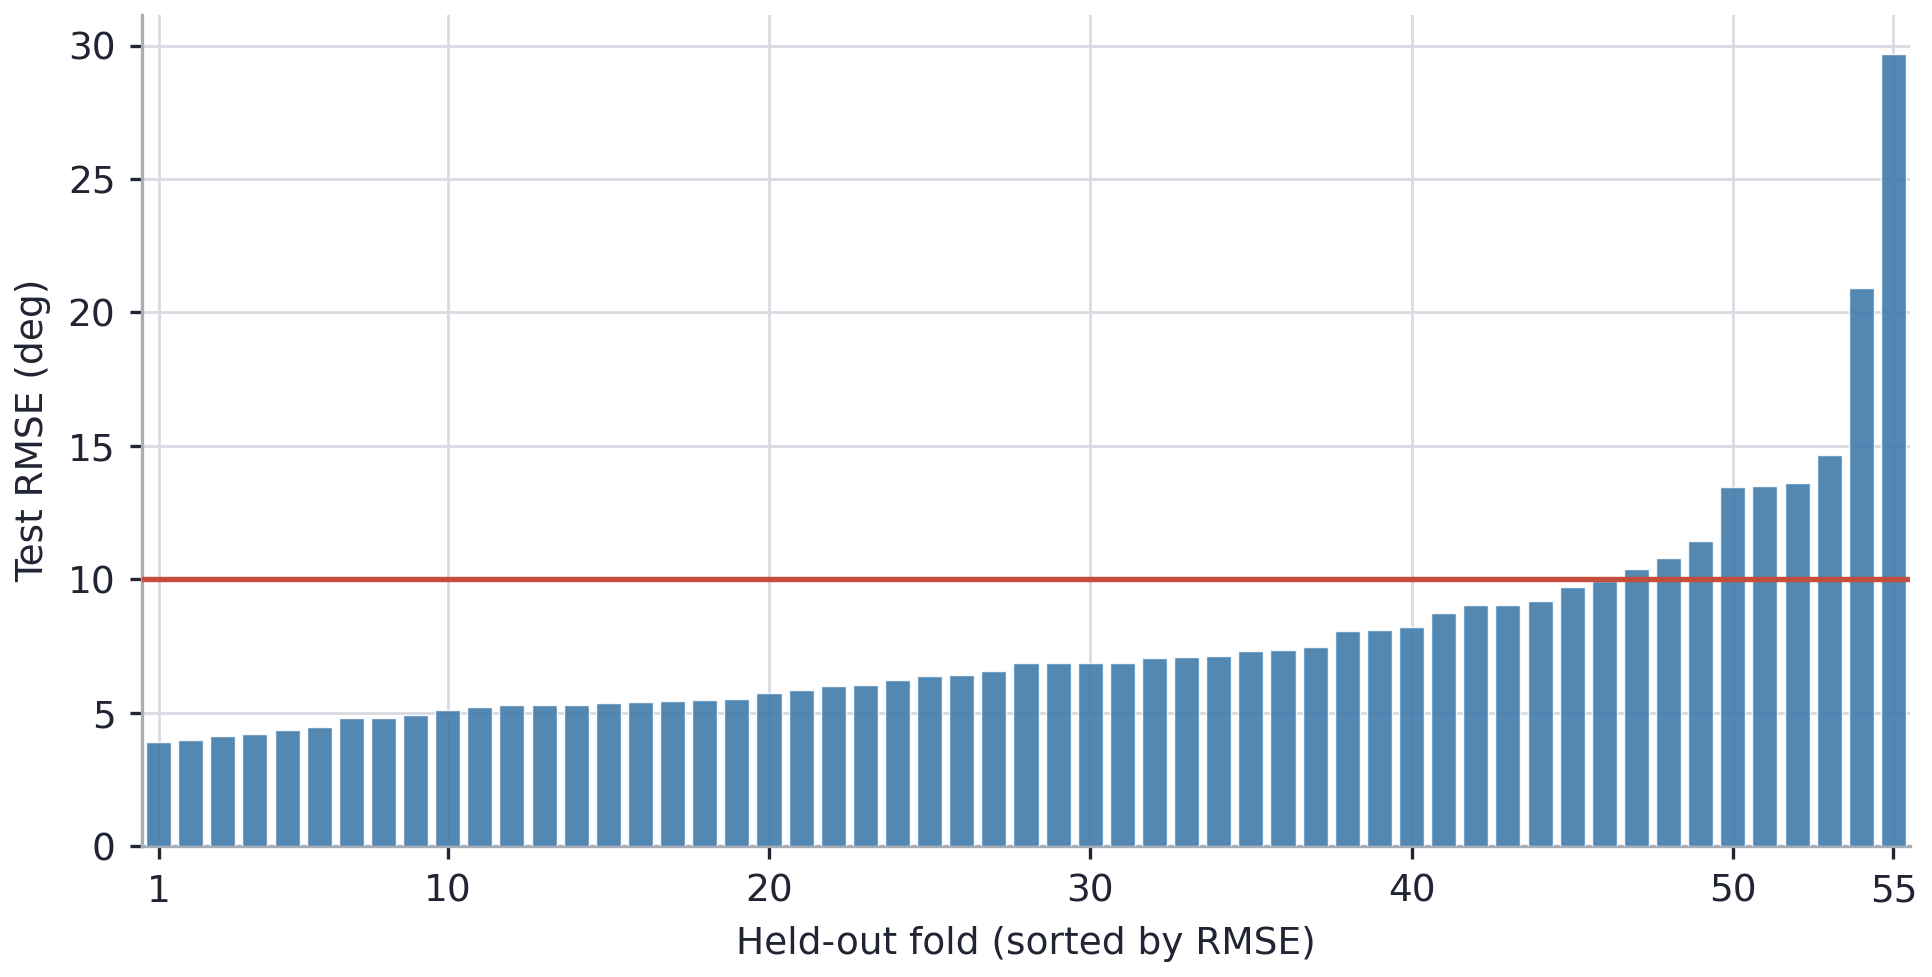
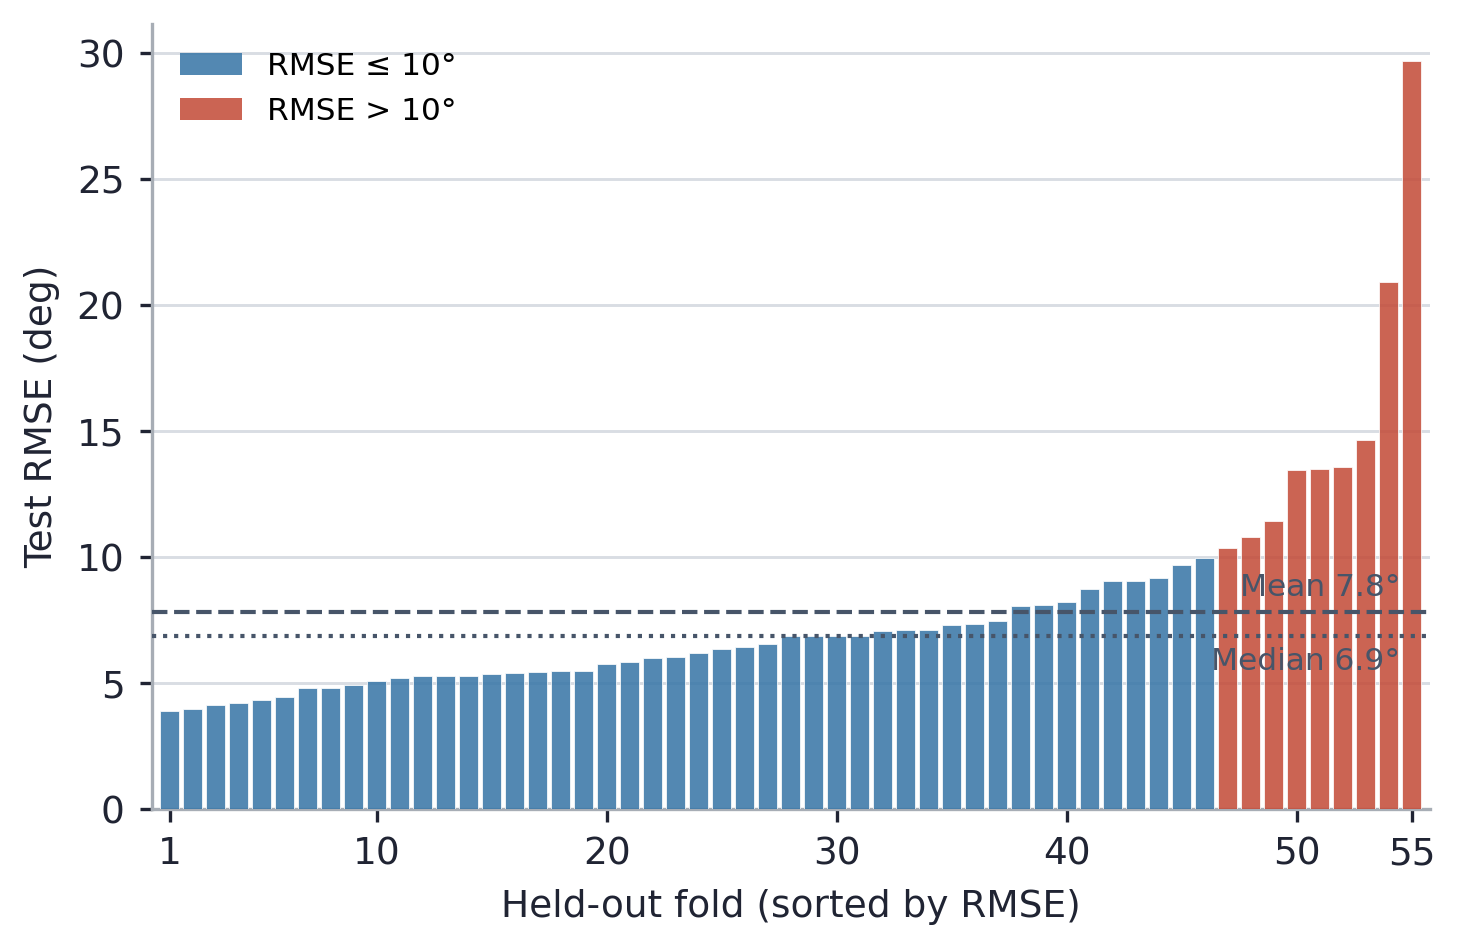
Overhaul figs 2-5 for consistency and paper readiness
Fig 2: add panel labels A/B, reduce fill alpha, thinner lines,
  explicit dpi/bbox_inches, frameless legend
Fig 3: narrow to 5.5 in, color bars by 10-deg threshold, add
  mean/median reference lines with text annotations, y-grid only
Fig 4: merge REF+PRED onto a shared y-axis (panel A) so the
  comparison is direct; excess AUC in panel B with Wilcoxon note;
  add panel labels A/B
Fig 5: uniform slate dot color across all 3 panels, red regression
  line as paper accent; restore y-labels on panels B and C;
  consistent stat annotation position (top-right); add panel labels A/B/C

Changed region(s): [[0.0, 0.0306, 1.0, 0.9779]]

diff --git a/analysis/make_paper_figures.py b/analysis/make_paper_figures.py
@@ -585,124 +585,134 @@ def fig2_representative_trial(sim_df: pd.DataFrame, trial_idx: int = 75) -> str:
     risk_pred = d["predicted_fall_risk_trace_good"]
     excess = float(sim_df.iloc[trial_idx]["excess_auc"])
 
-    fig, (ax1, ax2) = plt.subplots(1, 2, figsize=(8.6, 3.2), gridspec_kw={"wspace": 0.35})
+    fig, (ax1, ax2) = plt.subplots(1, 2, figsize=(7.2, 3.0), gridspec_kw={"wspace": 0.42})
 
-    ax1.axhline(0, color="#9aa3ad", linewidth=1.0)
-    ax1.plot(t, xcom_ref, color=REF_COL, linewidth=1.9, label="REF")
-    ax1.plot(t, xcom_pred, color=PRED_COL, linewidth=1.9, label="PRED")
-    ax1.fill_between(t, xcom_ref, 0, where=(xcom_ref < 0), color=REF_COL, alpha=0.10)
-    ax1.fill_between(t, xcom_pred, 0, where=(xcom_pred < 0), color=PRED_COL, alpha=0.10)
-    ax1.set_xlabel("Time (s)")
-    ax1.set_ylabel("XCoM margin (m)")
-    ax1.legend(loc="lower left", fontsize=8)
+    # Panel A — XCoM margin
+    ax1.axhline(0, color="#9aa3ad", linewidth=0.8, linestyle="--", zorder=1)
+    ax1.fill_between(t, xcom_pred, 0, where=(xcom_pred < 0), color=PRED_COL, alpha=0.12, zorder=2)
+    ax1.plot(t, xcom_ref,  color=REF_COL,  linewidth=1.5, label="REF",  zorder=3)
+    ax1.plot(t, xcom_pred, color=PRED_COL, linewidth=1.5, label="PRED", zorder=4)
+    ax1.set_xlabel("Time (s)", fontsize=9)
+    ax1.set_ylabel("XCoM margin (m)", fontsize=9)
+    ax1.legend(loc="lower left", fontsize=8, frameon=False)
+    ax1.xaxis.set_major_locator(MaxNLocator(nbins=5))
+    ax1.yaxis.set_major_locator(MaxNLocator(nbins=5))
     _grid(ax1, "y")
+    ax1.text(-0.14, 1.03, "A", transform=ax1.transAxes, fontsize=10, fontweight="bold", va="top", color=INK)
 
-    ax2.plot(t, risk_ref, color=REF_COL, linewidth=1.9, label="REF")
-    ax2.plot(t, risk_pred, color=PRED_COL, linewidth=1.9, label="PRED")
-    ax2.fill_between(t, risk_ref, color=REF_COL, alpha=0.10)
-    ax2.fill_between(t, risk_pred, color=PRED_COL, alpha=0.10)
-    ax2.set_xlabel("Time (s)")
-    ax2.set_ylabel("Instability score")
-    ax2.set_ylim(-0.02, 1.05)
-    ax2.legend(loc="upper left", fontsize=8)
-    ax2.text(
-        0.98,
-        0.04,
-        f"Excess AUC = {excess:.3f}",
-        transform=ax2.transAxes,
-        ha="right",
-        va="bottom",
-        fontsize=8,
-        color=INK,
-    )
+    # Panel B — per-step risk score
+    ax2.fill_between(t, risk_pred, color=PRED_COL, alpha=0.12, zorder=2)
+    ax2.plot(t, risk_ref,  color=REF_COL,  linewidth=1.5, label="REF",  zorder=3)
+    ax2.plot(t, risk_pred, color=PRED_COL, linewidth=1.5, label="PRED", zorder=4)
+    ax2.set_xlabel("Time (s)", fontsize=9)
+    ax2.set_ylabel("Instability score", fontsize=9)
+    ax2.set_ylim(-0.02, 1.08)
+    ax2.legend(loc="upper left", fontsize=8, frameon=False)
+    ax2.text(0.97, 0.04, f"Excess AUC = {excess:.3f}",
+             transform=ax2.transAxes, ha="right", va="bottom", fontsize=8, color=INK)
+    ax2.xaxis.set_major_locator(MaxNLocator(nbins=5))
+    ax2.yaxis.set_major_locator(MaxNLocator(nbins=4))
     _grid(ax2, "y")
+    ax2.text(-0.14, 1.03, "B", transform=ax2.transAxes, fontsize=10, fontweight="bold", va="top", color=INK)
 
     out = OUT_DIR / "fig2_representative_trial.png"
-    fig.savefig(out)
+    fig.savefig(out, dpi=300, bbox_inches="tight", pad_inches=0.08)
     plt.close(fig)
     return str(out)
 
 
 def fig3_prediction(train_df: pd.DataFrame) -> str:
-    df = train_df.copy()
-    df = df.sort_values("test_rmse")
+    df = train_df.copy().sort_values("test_rmse")
     rmse = np.asarray(df["test_rmse"].to_numpy(), dtype=float)
     x = np.arange(1, rmse.size + 1, dtype=int)
+    mean_v = float(np.mean(rmse))
+    med_v = float(np.median(rmse))
 
-    fig, ax = plt.subplots(figsize=(7.6, 3.6))
-    ax.bar(x, rmse, width=0.78, color=BLUE_COL, edgecolor=WHITE, linewidth=0.35, alpha=0.88, zorder=3)
-    ax.axhline(10.0, color=PRED_COL, linewidth=1.3, zorder=5)
-    ax.set_xlabel("Held-out fold (sorted by RMSE)")
-    ax.set_ylabel("Test RMSE (deg)")
-    ax.set_xlim(0.5, float(rmse.size) + 0.5)
+    bar_colors = [PRED_COL if v > 10.0 else BLUE_COL for v in rmse]
+
+    fig, ax = plt.subplots(figsize=(5.5, 3.4))
+    ax.bar(x, rmse, width=0.82, color=bar_colors, edgecolor=WHITE, linewidth=0.2, alpha=0.88, zorder=3)
+    ax.axhline(mean_v, color="#475569", linewidth=1.0, linestyle="--", zorder=5)
+    ax.axhline(med_v,  color="#475569", linewidth=1.0, linestyle=":",  zorder=5)
+    ax.text(rmse.size - 0.5, mean_v + 0.4, f"Mean {mean_v:.1f}\u00b0",
+            ha="right", va="bottom", fontsize=7.5, color="#475569")
+    ax.text(rmse.size - 0.5, med_v - 0.4, f"Median {med_v:.1f}\u00b0",
+            ha="right", va="top", fontsize=7.5, color="#475569")
+    ax.set_xlabel("Held-out fold (sorted by RMSE)", fontsize=9)
+    ax.set_ylabel("Test RMSE (deg)", fontsize=9)
+    ax.set_xlim(0.2, float(rmse.size) + 0.8)
+    ax.set_ylim(0, None)
     ax.set_xticks([1, 10, 20, 30, 40, 50, 55])
-    _grid(ax, "both")
+    _grid(ax, "y")
+
+    # Compact legend for bar colors
+    from matplotlib.patches import Patch
+    ax.legend(
+        handles=[Patch(facecolor=BLUE_COL, alpha=0.88, label="RMSE \u2264 10\u00b0"),
+                 Patch(facecolor=PRED_COL, alpha=0.88, label="RMSE > 10\u00b0")],
+        loc="upper left", fontsize=7.5, frameon=False,
+    )
 
     out = OUT_DIR / "fig3_prediction_performance.png"
-    fig.savefig(out)
+    fig.savefig(out, dpi=300, bbox_inches="tight", pad_inches=0.08)
     plt.close(fig)
     return str(out)
 
 
 def fig4_simulation(sim_df: pd.DataFrame) -> str:
-    ref_auc = sim_df["ref_auc"].to_numpy()
+    ref_auc  = sim_df["ref_auc"].to_numpy()
     pred_auc = sim_df["pred_auc"].to_numpy()
-    excess = sim_df["excess_auc"].to_numpy()
+    excess   = sim_df["excess_auc"].to_numpy()
     rng = np.random.default_rng(42)
 
-    fig = plt.figure(figsize=(9.4, 3.6))
-    gs = fig.add_gridspec(1, 3, left=0.075, right=0.975, bottom=0.18, top=0.95, wspace=0.24)
-    ax_ref = fig.add_subplot(gs[0, 0])
-    ax_pred = fig.add_subplot(gs[0, 1])
-    ax_ex = fig.add_subplot(gs[0, 2])
+    fig, (ax_cmp, ax_ex) = plt.subplots(
+        1, 2, figsize=(7.0, 3.4),
+        gridspec_kw={"wspace": 0.44, "width_ratios": [1.1, 1.0]},
+    )
 
-    def _single_box(
-        axp: plt.Axes,
-        data: np.ndarray,
-        xpos: float,
-        color: str,
-        label: str,
-        add_zero: bool = False,
-        box_width: float = 0.30,
-        jitter: float = 0.06,
-        x_pad: float = 0.42,
-    ) -> None:
+    def _box(axp: plt.Axes, data: np.ndarray, xpos: float, col: str, jitter: float = 0.07) -> None:
         axp.boxplot(
-            [data],
-            positions=[xpos],
-            widths=box_width,
-            patch_artist=True,
-            showfliers=False,
-            boxprops=dict(facecolor=WHITE, edgecolor=INK, linewidth=1.0),
-            whiskerprops=dict(color=INK, linewidth=1.0),
-            capprops=dict(color=INK, linewidth=1.0),
-            medianprops=dict(color=INK, linewidth=1.2),
+            [data], positions=[xpos], widths=0.30,
+            patch_artist=True, showfliers=False,
+            boxprops=dict(facecolor=WHITE, edgecolor=INK, linewidth=0.9),
+            whiskerprops=dict(color=INK, linewidth=0.9),
+            capprops=dict(color=INK, linewidth=0.9),
+            medianprops=dict(color=col, linewidth=1.6),
         )
         axp.scatter(
             xpos + rng.uniform(-jitter, jitter, size=data.size),
-            data,
-            s=18,
-            color=color,
-            edgecolors="white",
-            linewidth=0.25,
-            alpha=0.78,
-            zorder=3,
+            data, s=14, color=col, edgecolors="white", linewidth=0.2, alpha=0.72, zorder=3,
         )
-        if add_zero:
-            axp.axhline(0, color="#94a3b8", linewidth=0.9, linestyle="--", zorder=1)
-        axp.set_xticks([xpos])
-        axp.set_xticklabels([label])
-        axp.set_xlim(xpos - x_pad, xpos + x_pad)
-        _grid(axp, "y")
-        axp.spines["bottom"].set_visible(False)
 
-    _single_box(ax_ref, ref_auc, 1.0, REF_COL, "REF")
-    _single_box(ax_pred, pred_auc, 1.0, PRED_COL, "PRED")
-    _single_box(ax_ex, excess, 1.0, PRED_COL, "PRED - REF", add_zero=True, box_width=0.24, jitter=0.045, x_pad=0.34)
+    # Panel A — REF vs PRED on shared y-axis
+    _box(ax_cmp, ref_auc,  1.0, REF_COL)
+    _box(ax_cmp, pred_auc, 2.0, PRED_COL)
+    ax_cmp.set_xticks([1.0, 2.0])
+    ax_cmp.set_xticklabels(["REF", "PRED"])
+    ax_cmp.set_xlim(0.5, 2.5)
+    ax_cmp.set_ylabel("Instability AUC", fontsize=9)
+    ax_cmp.yaxis.set_major_locator(MaxNLocator(nbins=5))
+    _grid(ax_cmp, "y")
+    ax_cmp.spines["bottom"].set_visible(False)
+    ax_cmp.text(-0.16, 1.03, "A", transform=ax_cmp.transAxes,
+                fontsize=10, fontweight="bold", va="top", color=INK)
 
-    ax_ref.set_ylabel("Instability AUC")
-    ax_pred.set_ylabel("Instability AUC")
-    ax_ex.set_ylabel("Excess AUC")
+    # Panel B — excess AUC
+    _box(ax_ex, excess, 1.0, PRED_COL, jitter=0.05)
+    ax_ex.axhline(0, color="#94a3b8", linewidth=0.9, linestyle="--", zorder=1)
+    ax_ex.set_xticks([1.0])
+    ax_ex.set_xticklabels(["PRED \u2212 REF"])
+    ax_ex.set_xlim(0.6, 1.4)
+    ax_ex.set_ylabel("Excess instability AUC", fontsize=9)
+    ax_ex.yaxis.set_major_locator(MaxNLocator(nbins=5))
+    n_pos = int(np.sum(excess > 0))
+    ax_ex.text(0.97, 0.97,
+               f"{100 * n_pos / len(excess):.0f}% > 0\nWilcoxon p < 0.001",
+               transform=ax_ex.transAxes, ha="right", va="top", fontsize=7.5, color=INK)
+    _grid(ax_ex, "y")
+    ax_ex.spines["bottom"].set_visible(False)
+    ax_ex.text(-0.20, 1.03, "B", transform=ax_ex.transAxes,
+               fontsize=10, fontweight="bold", va="top", color=INK)
 
     out = OUT_DIR / "fig4_simulation_instability.png"
     fig.savefig(out, dpi=300, bbox_inches="tight", pad_inches=0.08)
@@ -774,44 +784,45 @@ def fig8_model_architecture() -> str:
 
 
 def fig5_correlation(trials_df: pd.DataFrame, partial_sum: dict[str, Any]) -> str:
-    x_raw = trials_df["predictor_knee_rmse_deg"].to_numpy()
-    y_raw = trials_df["outcome_value"].to_numpy()
+    x_raw   = trials_df["predictor_knee_rmse_deg"].to_numpy()
+    y_raw   = trials_df["outcome_value"].to_numpy()
     x_match = trials_df["control_match_knee_rmse_deg"].to_numpy()
-    x_res = trials_df["residual_predictor"].to_numpy()
-    y_res = trials_df["residual_outcome"].to_numpy()
+    x_res   = trials_df["residual_predictor"].to_numpy()
+    y_res   = trials_df["residual_outcome"].to_numpy()
 
-    rho_raw, p_raw = stats.spearmanr(x_raw, y_raw)
-    rho_match, p_match = stats.spearmanr(x_match, y_raw)
+    rho_raw,   p_raw   = stats.spearmanr(x_raw,   y_raw)
+    rho_match, p_match = stats.spearmanr(x_match,  y_raw)
     rho_part = float(partial_sum["rho_partial_spearman"])
-    p_part = float(partial_sum["p_value_two_sided"])
+    p_part   = float(partial_sum["p_value_two_sided"])
 
-    fig, axes = plt.subplots(1, 3, figsize=(10.2, 3.6), gridspec_kw={"wspace": 0.35})
+    DOT = "#4a5568"   # same neutral slate for all three panels
+    LN  = PRED_COL    # regression line in paper accent colour
+
+    fig, axes = plt.subplots(1, 3, figsize=(9.6, 3.2), gridspec_kw={"wspace": 0.48})
 
     panels = [
-        (axes[0], x_raw, y_raw, BLUE_COL, "Model RMSE (deg)", "Excess instability AUC", rho_raw, p_raw),
-        (axes[1], x_match, y_raw, REF_COL, "Match RMSE (deg)", "Excess instability AUC", rho_match, p_match),
-        (axes[2], x_res, y_res, PRED_COL, "Residualized model RMSE", "Residualized excess AUC", rho_part, p_part),
+        (axes[0], x_raw,   y_raw, "Model RMSE (deg)",      "Excess instability AUC",    rho_raw,   p_raw,   "A"),
+        (axes[1], x_match, y_raw, "Match RMSE (deg)",       "Excess instability AUC",    rho_match, p_match, "B"),
+        (axes[2], x_res,   y_res, "Residualised model RMSE","Residualised excess AUC",   rho_part,  p_part,  "C"),
     ]
 
-    for ax, xd, yd, clr, xlab, ylab, rho, p in panels:
-        ax.scatter(xd, yd, s=24, color=clr, edgecolors="white", linewidth=0.35, alpha=0.82, zorder=3)
+    for ax, xd, yd, xlab, ylab, rho, p, lbl in panels:
+        ax.scatter(xd, yd, s=20, color=DOT, edgecolors="white", linewidth=0.25, alpha=0.78, zorder=3)
         m, b = np.polyfit(xd, yd, 1)
         xs = np.linspace(float(np.min(xd)), float(np.max(xd)), 200)
-        ax.plot(xs, m * xs + b, color=INK, linewidth=1.4)
-        ax.set_xlabel(xlab)
-        ax.set_ylabel(ylab)
-        ax.text(0.97, 0.96, _rho_text(float(rho), float(p)), transform=ax.transAxes, ha="right", va="top", fontsize=8, color=INK)
+        ax.plot(xs, m * xs + b, color=LN, linewidth=1.2, zorder=2)
+        ax.set_xlabel(xlab, fontsize=9)
+        ax.set_ylabel(ylab, fontsize=9)
+        ax.text(0.97, 0.97, _rho_text(float(rho), float(p)),
+                transform=ax.transAxes, ha="right", va="top", fontsize=7.5, color=INK)
         _grid(ax, "both")
         ax.xaxis.set_major_locator(MaxNLocator(nbins=5))
         ax.yaxis.set_major_locator(MaxNLocator(nbins=5))
-
-    # Keep physical panel sizes identical, and reduce the visual impression of
-    # unequal panels by trimming repeated long labels.
-    axes[1].set_ylabel("")
-    axes[2].set_ylabel("")
+        ax.text(-0.16, 1.03, lbl, transform=ax.transAxes,
+                fontsize=10, fontweight="bold", va="top", color=INK)
 
     out = OUT_DIR / "fig5_fwl_correlation.png"
-    fig.savefig(out)
+    fig.savefig(out, dpi=300, bbox_inches="tight", pad_inches=0.08)
     plt.close(fig)
     return str(out)
 
